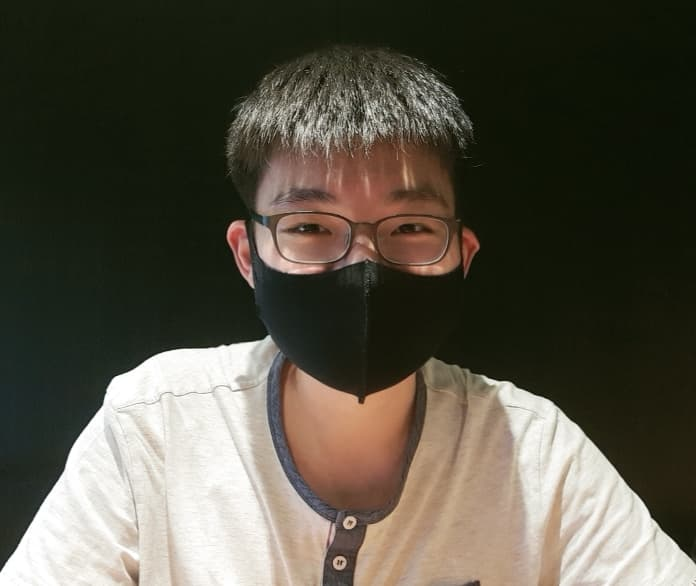
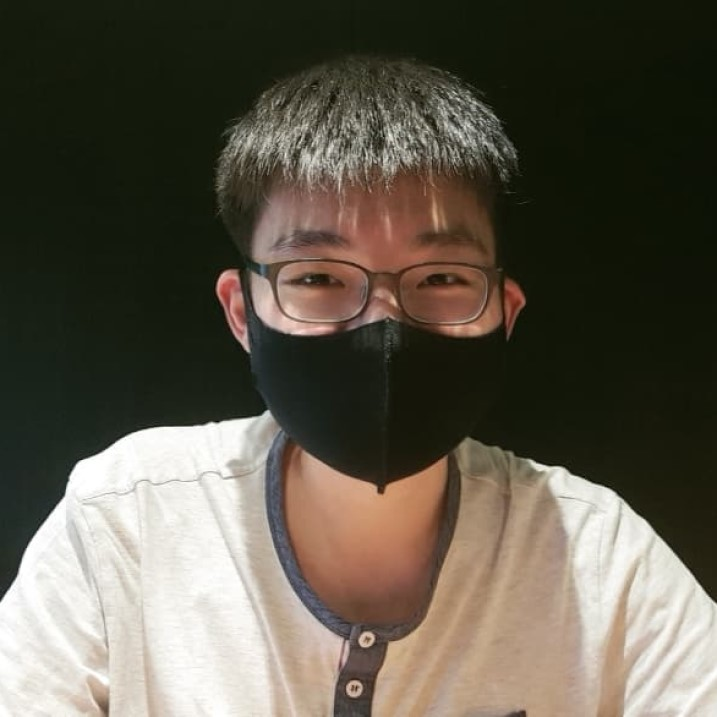
test commit

diff --git a/src/components/sidebar/Bio.js b/src/components/sidebar/Bio.js
@@ -7,7 +7,7 @@ const Bio = ({ author, tagline }) => {
 
     return (
         <div className="bio-main w-75">
-            <img src={yhkim4306} style={{ maxWidth: `100px` }} className="profile-img" alt="" />
+            <img src={yhkim4306} style={{ maxWidth: `200px` }} className="profile-img" alt="" />
             <h3 className="mt-2 author-bio">{author}</h3>
             <small className="text-muted">{tagline}</small>
         </div>

diff --git a/config.js b/config.js
@@ -3,7 +3,7 @@
 module.exports = {
   url: "https://developer-diary.netlify.com",
   title: "Yonghwan Kim",
-  tagline: "Mathematics Major, Seoul National University",
+  tagline: "Mathematics Major Sophomore, Seoul National University",
   copyright: "© 2020 kimyh4306, All rights reserved",
   author: {
     name: "Yonghwan Kim",
